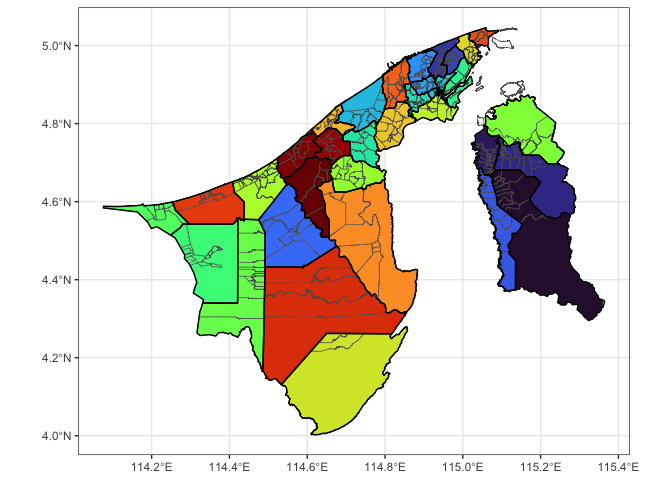
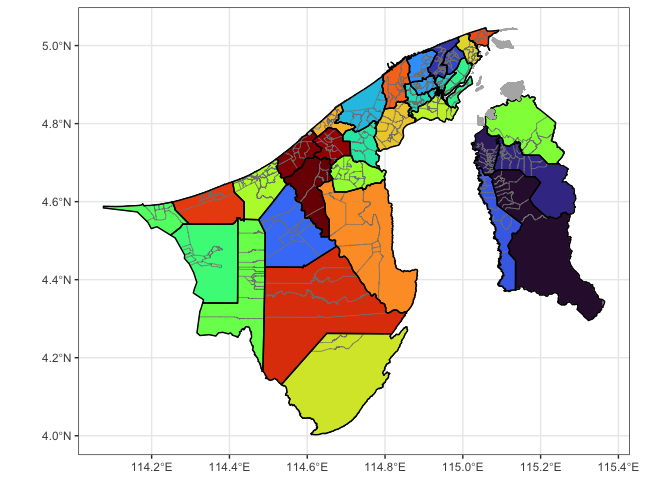
Update README

diff --git a/README.md b/README.md
@@ -10,8 +10,8 @@
 
 Provides Brunei GIS data in the form of a `sf` (simple features) object
 ready for plotting and analysis in R. The smallest (areal) unit of
-analysis is a “kampong”, which in turn is contained within mukims and
-districts.
+analysis is a “kampong” (although not all areas are actual kampongs),
+which in turn is contained within mukims and districts.
 
 ## Installation
 
@@ -29,11 +29,10 @@ There are three `sf` files contained in the package:
 
 1.  `dis_sf` (District level boundaries)
 2.  `mkm_sf` (Mukim level boundaries)
-3.  `kpg_sf` (Kampong level boundaries)
+3.  `kpg_sf` (“Kampong” level boundaries)
 
-Most likely you will want to use the kampong level data. Of course, the
-`kpg_sf` can be summarised in terms of mukims and districts, but for
-convenience the other two data sets are provided as well.
+Most likely you will want to use either the kampong level or mukim level
+data.
 
 ### Data
 
@@ -46,24 +45,26 @@ library(sf)
 
 # What's in our data set?
 glimpse(kpg_sf)
-#> Rows: 451
-#> Columns: 8
-#> $ id       <dbl> 28, 29, 30, 31, 32, 25, 26, 27, 1, 2, 3, 4, 5, 6, 7, 8, 9, 10…
-#> $ kampong  <chr> "Perumahan Negara Rimba Kawasan 5", "Perumahan Negara Mentiri…
-#> $ mukim    <chr> "Mukim Gadong A", "Mukim Mentiri", "Mukim Mentiri", "Mukim Be…
-#> $ area     <dbl> 1697312.38, 2850799.25, 926182.25, 4115267.50, 902883.44, 137…
-#> $ X        <dbl> 114.9061, 115.0368, 115.0269, 114.9399, 114.9472, 114.9197, 1…
-#> $ Y        <dbl> 4.968952, 4.970981, 4.970273, 4.924705, 4.936163, 4.963643, 4…
-#> $ district <chr> "Brunei Muara", "Brunei Muara", "Brunei Muara", "Brunei Muara…
-#> $ geometry <MULTIPOLYGON [°]> MULTIPOLYGON (((114.9104 4...., MULTIPOLYGON (((…
+#> Rows: 438
+#> Columns: 9
+#> $ id        <dbl> 1, 2, 3, 4, 5, 6, 7, 8, 9, 10, 11, 12, 13, 14, 15, 16, 17, 1…
+#> $ kampong   <chr> "Kg. Biang", "Kg. Amo", "Kg. Sibut", "Kg. Sumbiling Baru", "…
+#> $ mukim     <chr> "Mukim Amo", "Mukim Amo", "Mukim Amo", "Mukim Amo", "Mukim A…
+#> $ district  <chr> "Temburong", "Temburong", "Temburong", "Temburong", "Temburo…
+#> $ geometry  <POLYGON [°]> POLYGON ((115.1546 4.66665,..., POLYGON ((115.1626 4…
+#> $ X         <dbl> 115.1244, 115.1512, 115.1080, 115.1071, 115.1600, 115.1247, …
+#> $ Y         <dbl> 4.666180, 4.631506, 4.611763, 4.597677, 4.574173, 4.587969, …
+#> $ perimeter [m] 21056.211 [m], 38683.611 [m], 16291.051 [m], 12994.328 [m], 33…
+#> $ area      [m^2] 19281117.5 [m^2], 52037879.4 [m^2], 7597654.2 [m^2], 6652565…
 ```
 
 ### Plots
 
 ``` r
 ggplot(kpg_sf) +
-  geom_sf(aes(fill = mukim)) +
+  geom_sf(aes(fill = mukim), col = "gray50") +
   geom_sf(data = mkm_sf, col = "black", lwd = 0.5, fill = NA) +
+  geom_sf(data = filter(kpg_sf, is.na(mukim)), fill = "gray70", col = "gray70") +
   theme(legend.position = "none") +
   scale_fill_viridis_d(option = "turbo")
 ```
